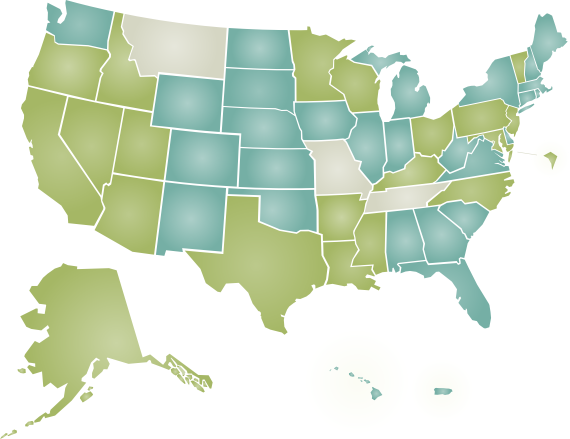
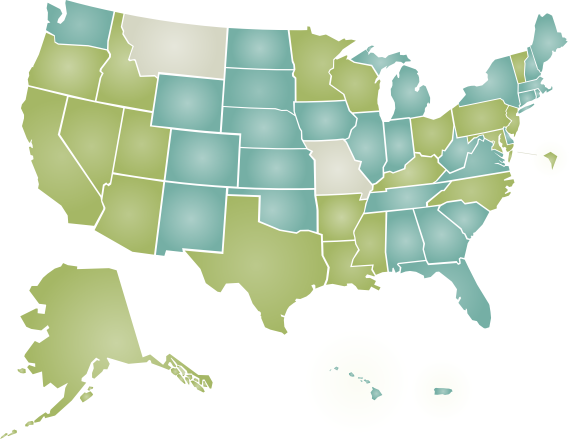
Tennessee

Changed region(s): [[0.6263, 0.4146, 0.8053, 0.5034]]

diff --git a/templates/status.html b/templates/status.html
@@ -5,7 +5,7 @@
 {% block content %}
 <h2>Project Status</h2>
 
-<p> As of February 13th, 2012 we have data for 47 states, the District of Columbia, and Puerto Rico. </p>
+<p> As of February 27th, 2012 we have data for 48 states, the District of Columbia, and Puerto Rico. </p>
 
 <p> States are denoted as either "ready" or "experimental" depending on how
 reliable the source data is and how thoroughly we've vetted and cleaned up the
@@ -39,7 +39,7 @@ and Wisconsin.</p>
 <p> Experimental states (in blue) are those that we support but have not yet promoted to ready
 status.  Alabama, Colorado, Connecticut, Delaware, Florida, Georgia, Hawaii, Illinois, Indiana, Iowa, Kansas, Maine,
 Massachusetts, Michigan, Nebraska, New Hampshire, New Mexico, New York, North Dakota, Oklahoma, Puerto Rico,
-Rhode Island, South Carolina, South Dakota, Virginia, Washington, West Virginia, and Wyoming fall in this category.
+Rhode Island, South Carolina, South Dakota, Tennessee, Virginia, Washington, West Virginia, and Wyoming fall in this category.
 </p>
 
 <h4> Unsupported States </h4>

diff --git a/templates/index.html b/templates/index.html
@@ -37,7 +37,7 @@
                         Open States Project Status
                     </h3>
                     <p>
-                        We currently have data available for 47 states, Washington DC, and Puerto Rico.  If your state isn't available yet learn how to <a href="/contributing/">contribute.</a>
+                        We currently have data available for 48 states, Washington DC, and Puerto Rico.  If your state isn't available yet learn how to <a href="/contributing/">contribute.</a>
                     </p>
                 </div>
                 <div class="map-key">
